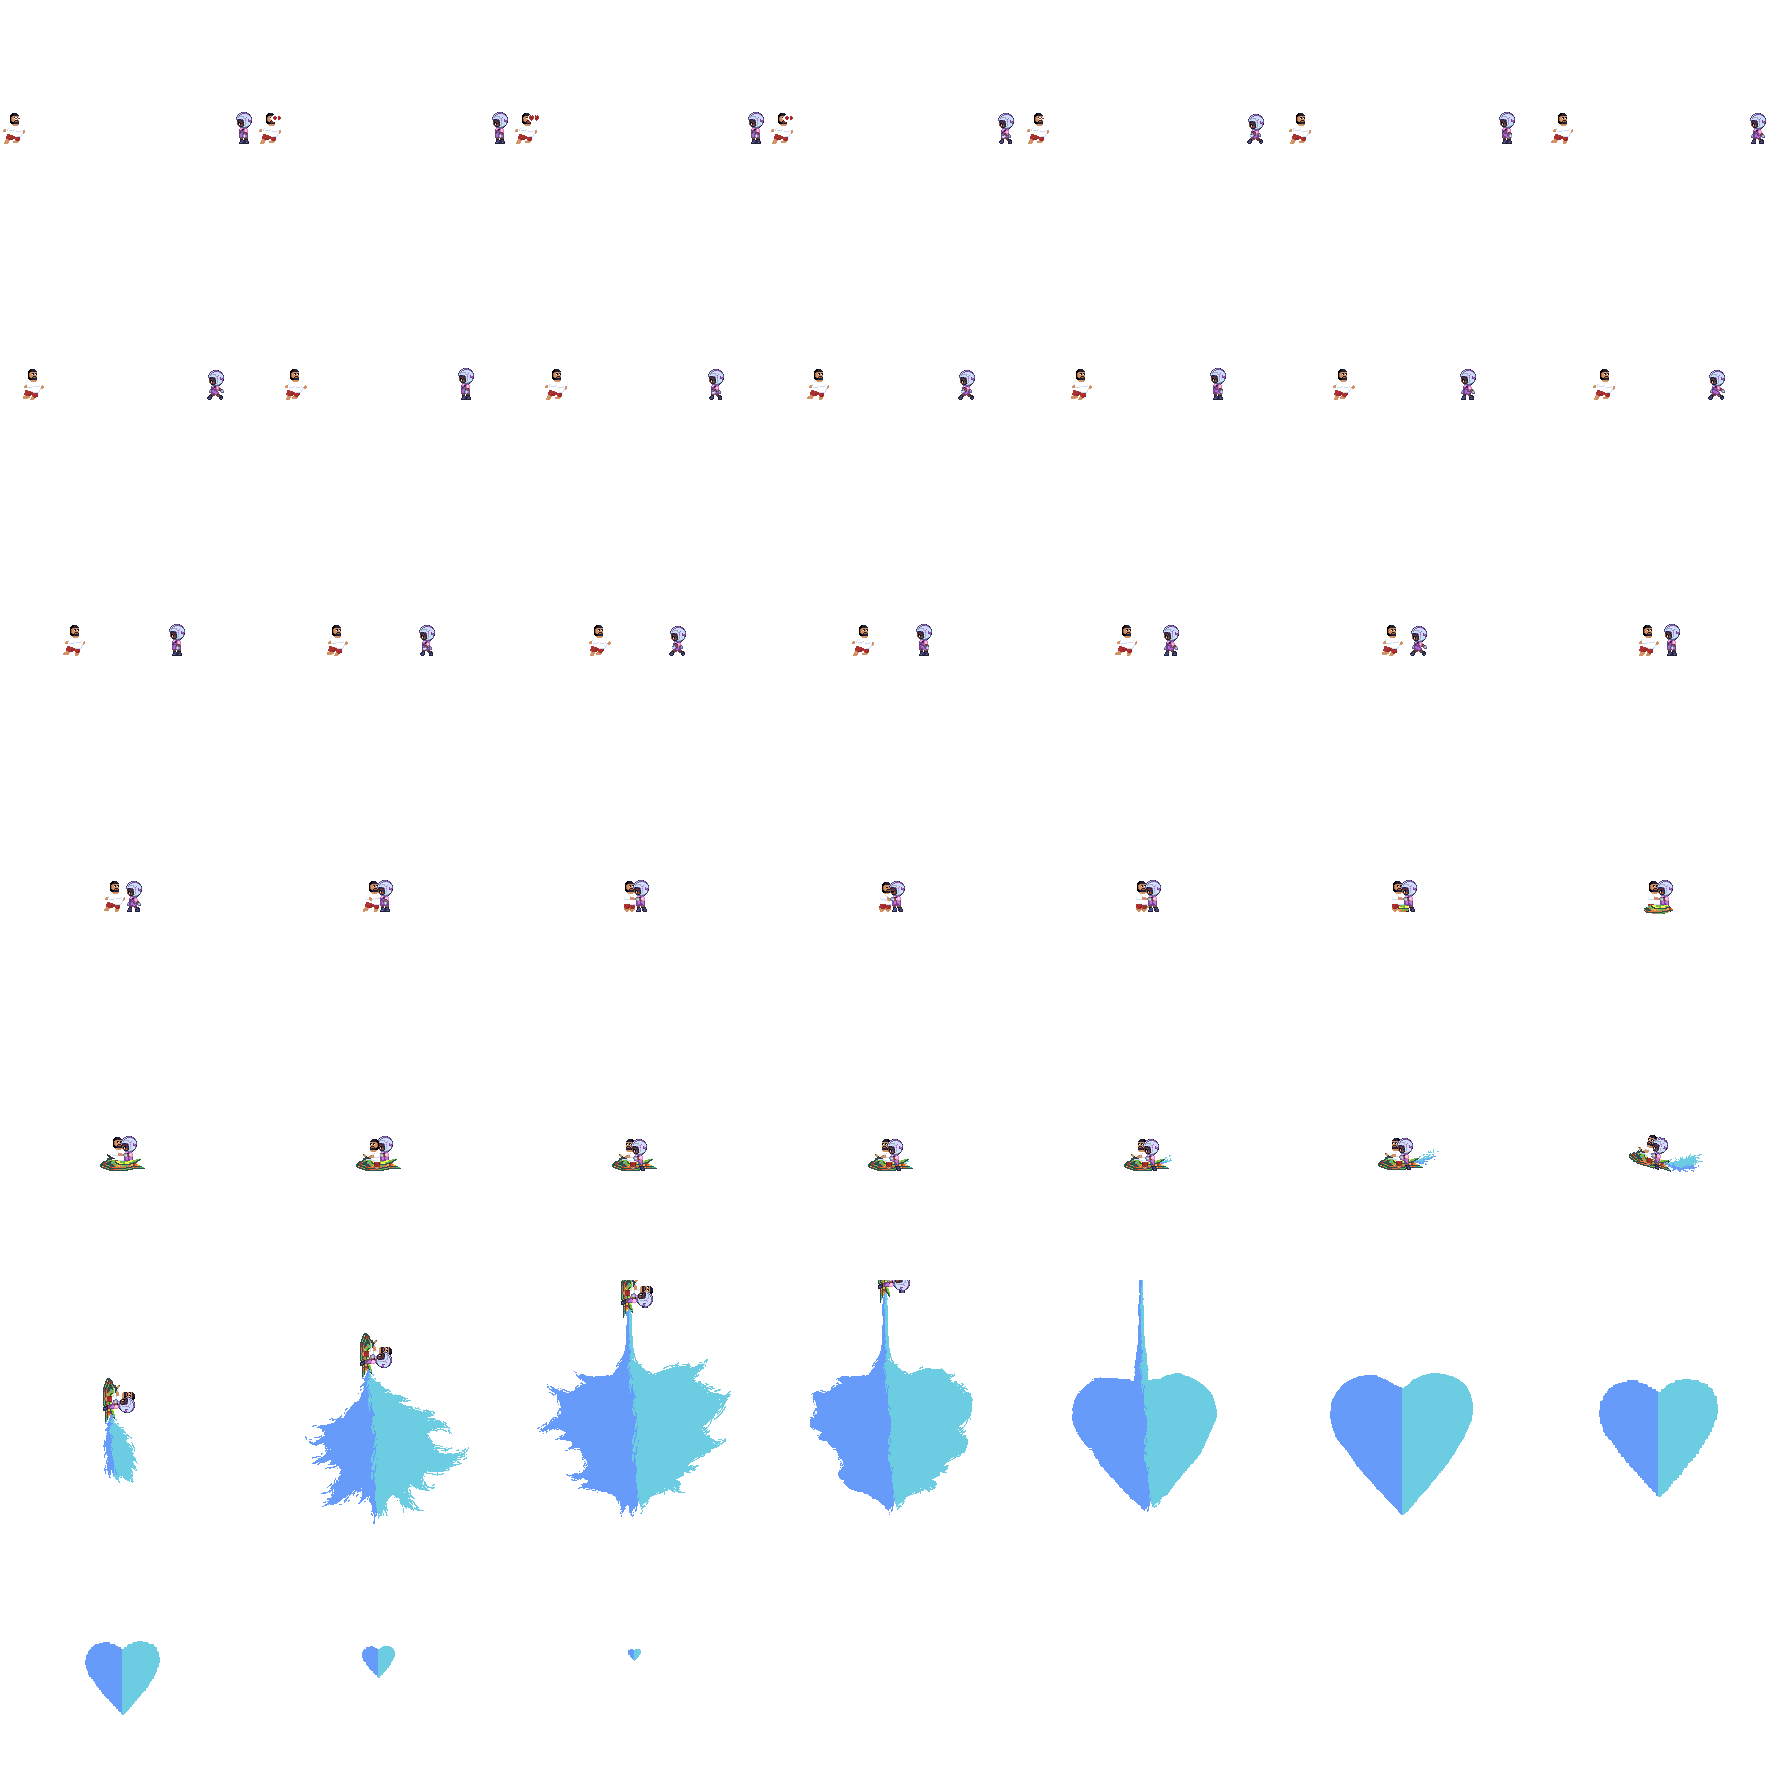
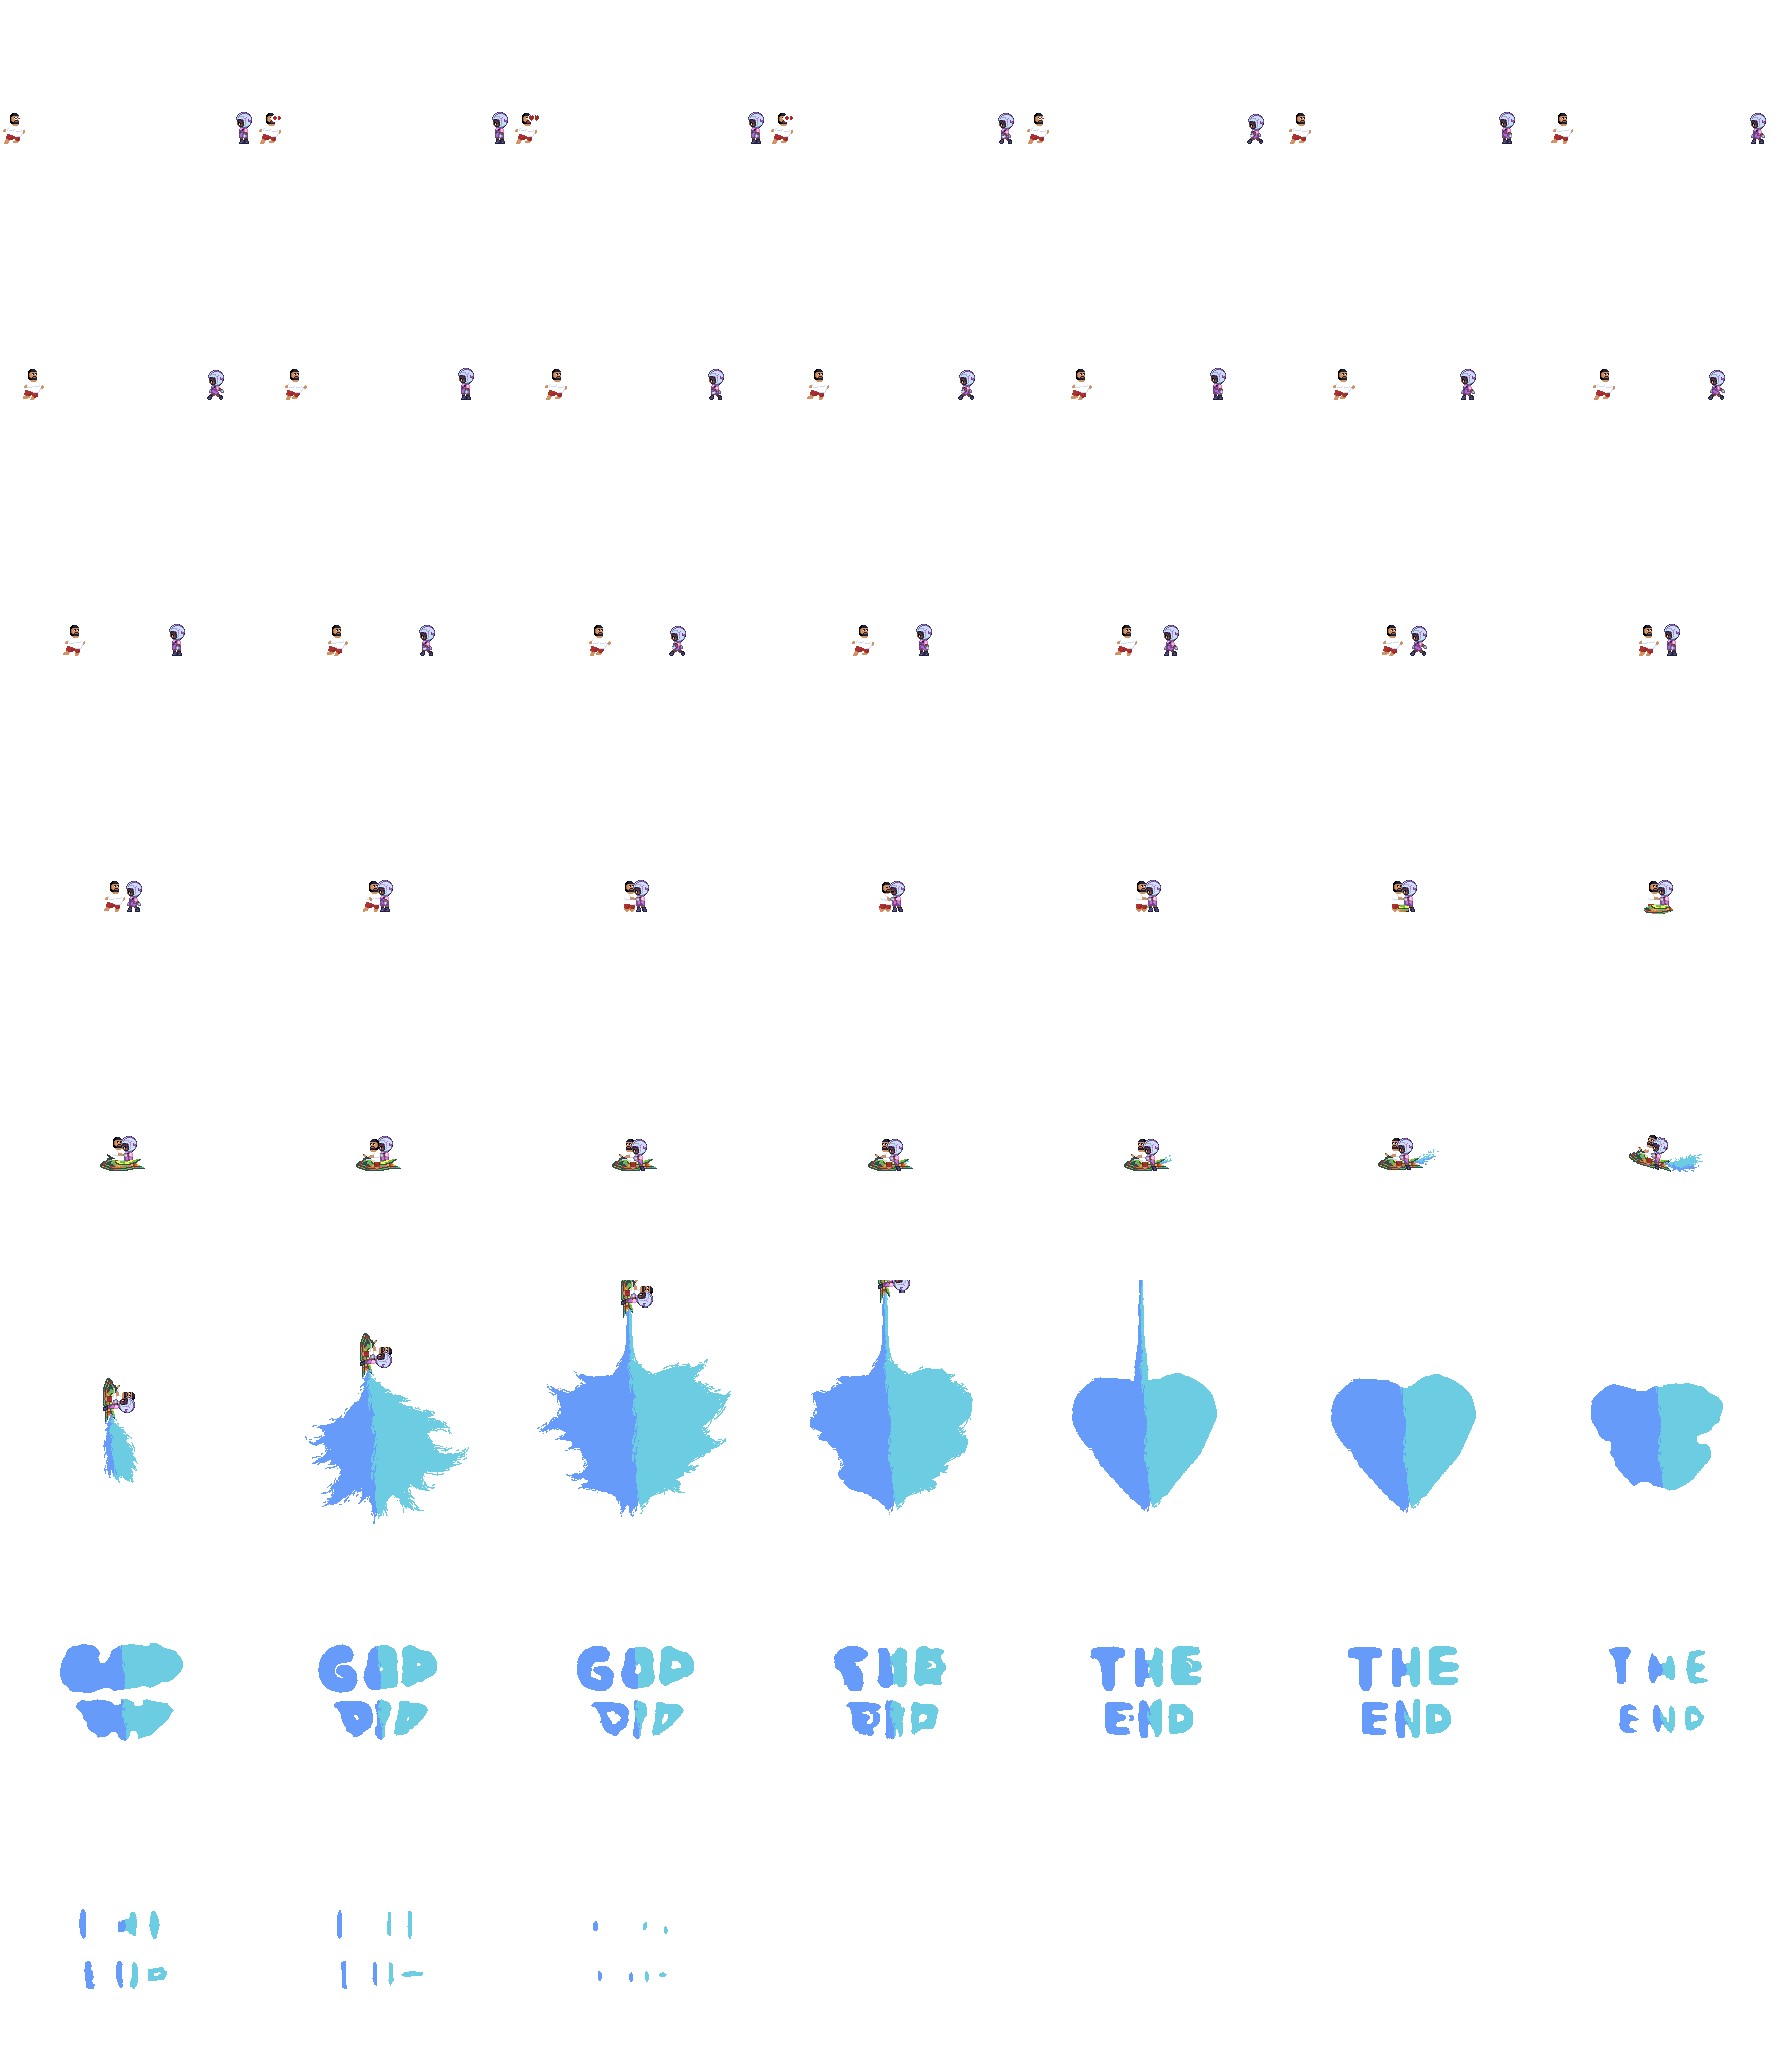
Cutscene sound effects

diff --git a/source/core/src/main/com/csse3200/game/components/placeables/DialogueComponent.java b/source/core/src/main/com/csse3200/game/components/placeables/DialogueComponent.java
@@ -11,6 +11,8 @@ import com.csse3200.game.entities.Entity;
 import com.csse3200.game.missions.cutscenes.Cutscene;
 import com.csse3200.game.rendering.AnimationRenderComponent;
 import com.csse3200.game.services.ServiceLocator;
+import com.csse3200.game.services.sound.EffectSoundFile;
+import com.csse3200.game.services.sound.InvalidSoundFileException;
 import com.csse3200.game.ui.UIComponent;
 
 public class DialogueComponent extends UIComponent {
@@ -26,6 +28,7 @@ public class DialogueComponent extends UIComponent {
     private boolean talked;
     private Entity cutscene;
     private boolean waitingForCredits;
+    private boolean waitingForGodDid;
     Image transparentRectangle;
 
     @Override
@@ -38,6 +41,7 @@ public class DialogueComponent extends UIComponent {
         super.create();
         talked = false;
         waitingForCredits = false;
+        waitingForGodDid = false;
 
         // setup for dimming screen, taken from Team 3's cutscene dimming.
         Pixmap pixmap = new Pixmap(1, 1, Pixmap.Format.RGBA8888);
@@ -76,6 +80,16 @@ public class DialogueComponent extends UIComponent {
         cutscene.setCenterPosition(entity.getCenterPosition());
         if (waitingForCredits && cutscene.getComponent(AnimationRenderComponent.class).isFinished()) {
             waitingForCredits = false;
+            waitingForGodDid = true;
+            cutscene.getComponent(AnimationRenderComponent.class).startAnimation("god_did");
+
+            try {
+                ServiceLocator.getSoundService().getEffectsMusicService().play(EffectSoundFile.GOD_DID);
+            } catch (InvalidSoundFileException e) {
+                // god didn't :(
+            }
+        } else if (waitingForGodDid && cutscene.getComponent(AnimationRenderComponent.class).isFinished()) {
+            waitingForGodDid = false;
             cutscene.getComponent(AnimationRenderComponent.class).stopAnimation();
 
             this.entity.getEvents().trigger("dim", 0f);

diff --git a/source/core/src/main/com/csse3200/game/entities/factories/PlaceableFactory.java b/source/core/src/main/com/csse3200/game/entities/factories/PlaceableFactory.java
@@ -156,6 +156,7 @@ public class PlaceableFactory {
         AnimationRenderComponent animation = new AnimationRenderComponent(
                 ServiceLocator.getResourceService().getAsset("images/cutscene.atlas", TextureAtlas.class), 16f);
         animation.addAnimation("default", 0.3f, Animation.PlayMode.NORMAL);
+        animation.addAnimation("god_did", 0.3f, Animation.PlayMode.NORMAL);
         return new Entity().addComponent(animation);
     }
 }

diff --git a/source/core/src/main/com/csse3200/game/services/sound/EffectSoundFile.java b/source/core/src/main/com/csse3200/game/services/sound/EffectSoundFile.java
@@ -14,7 +14,8 @@ public enum EffectSoundFile implements SoundFile {
     GATE_INTERACT("sounds/gate-interact.wav"),
     IMPACT("sounds/Impact4.ogg"),
     INVENTORY_OPEN("sounds/open-bag-sound-effect.mp3"),
-    HOTKEY_SELECT("sounds/take-item-sound-effect.mp3");
+    HOTKEY_SELECT("sounds/take-item-sound-effect.mp3"),
+    GOD_DID("sounds/god-did.mp3");
 
     private final String filePath;
 

diff --git a/source/core/src/main/com/csse3200/game/areas/SpaceGameArea.java b/source/core/src/main/com/csse3200/game/areas/SpaceGameArea.java
@@ -553,6 +553,7 @@ public class SpaceGameArea extends GameArea {
     effects.add(EffectSoundFile.FISHING_CAST);
     effects.add(EffectSoundFile.FISHING_CATCH);
     effects.add(EffectSoundFile.SCYTHE);
+    effects.add(EffectSoundFile.GOD_DID);
 
 
     try {
